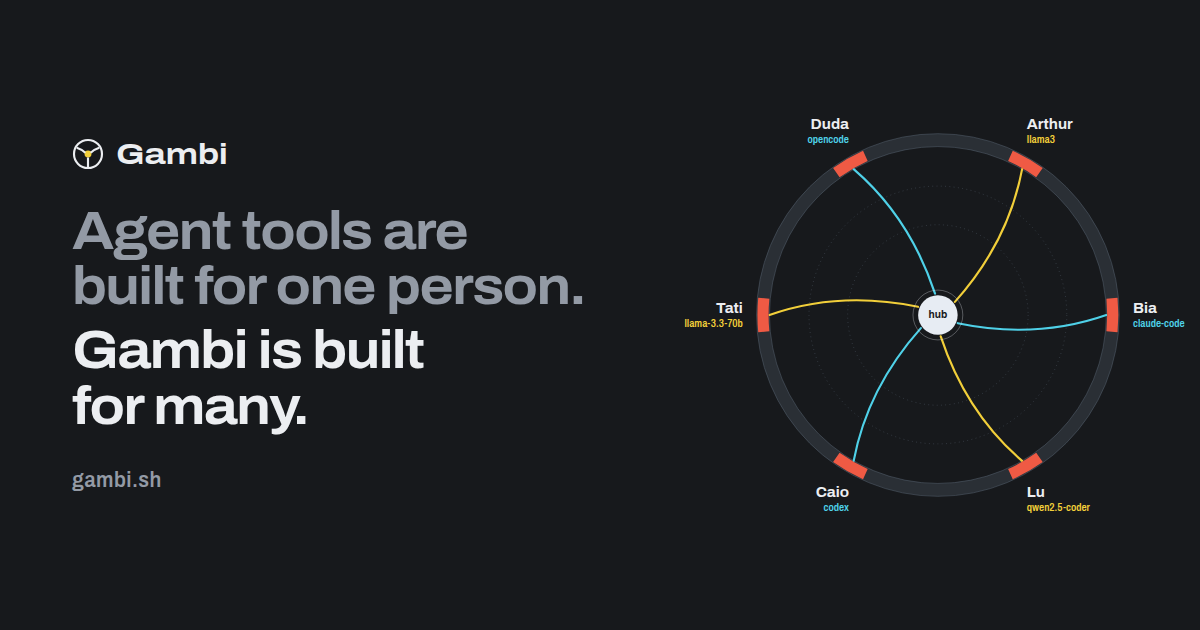
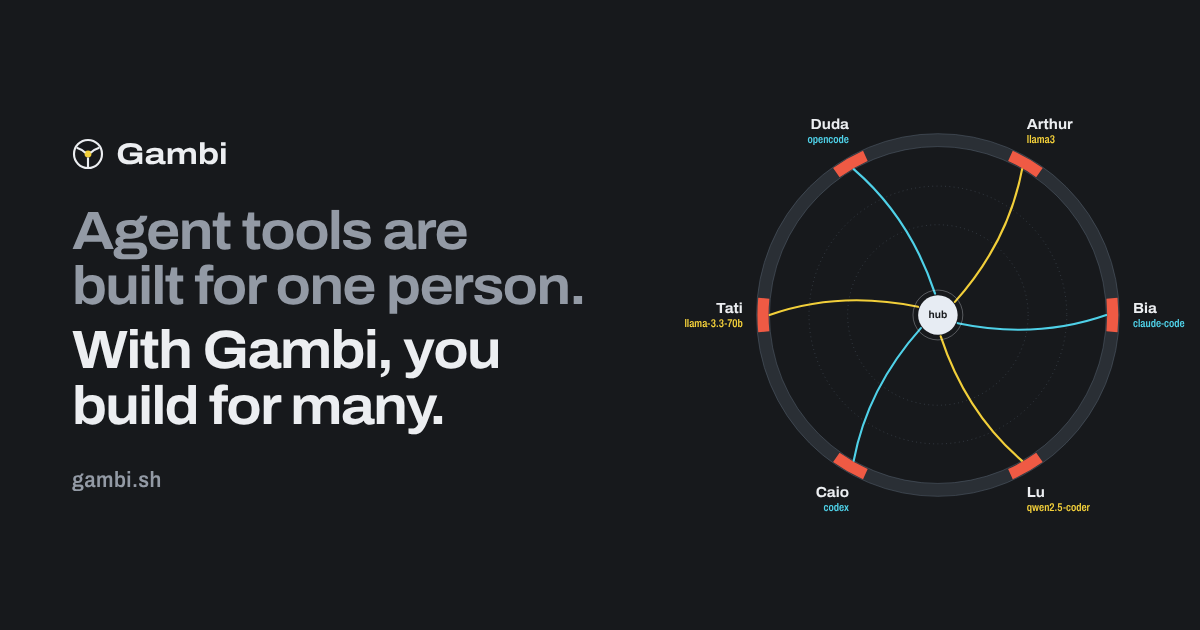
docs(landing): use "With Gambi, you build for many" in the hero (#97)
Change the hero's second line from "Gambi is built for many" to "With Gambi, you build for many" (pt-BR: "Com o Gambi, você constrói para muitas.") across the landing, meta descriptions, PRODUCT.md, and the link-preview card, and record it as amendment E14 in ADR 0001.

Claude-Session: https://claude.ai/code/session_01YVzTcABkiTkmiHRxgqdwdk

diff --git a/apps/docs/og/card.html b/apps/docs/og/card.html
@@ -171,7 +171,7 @@
       </p>
       <h1>
         <span class="one">Agent tools are built for one person.</span>
-        <span class="many">Gambi is built for many.</span>
+        <span class="many">With Gambi, you build for many.</span>
       </h1>
       <p class="url">gambi.sh</p>
     </div>

diff --git a/PRODUCT.md b/PRODUCT.md
@@ -26,7 +26,7 @@ Success (confirmed): **substrate adoption first** — outside builders adopt Gam
 
 ## Positioning
 
-"Agent tools are built for one person. Gambi is built for many." Most orchestrators connect one person to many agents (1→N); Gambi is the base for many people, each with their own models and harnesses, working in one session (N↔N), and each keeping their own keys. Gambi is a **social-ready inference substrate**: room-scoped multi-participant sharing where providers and harnesses never need to be reachable — the participant opens a tunnel to the hub (tunnel-first, ADR-0003). Neighboring gateways (OpenRouter-style) aggregate providers for one consumer; they do not offer people-contributed participants, rooms, presence, and events as a base for shared multi-LLM experiences.
+"Agent tools are built for one person. With Gambi, you build for many." Most orchestrators connect one person to many agents (1→N); Gambi is the base for many people, each with their own models and harnesses, working in one session (N↔N), and each keeping their own keys. Gambi is a **social-ready inference substrate**: room-scoped multi-participant sharing where providers and harnesses never need to be reachable — the participant opens a tunnel to the hub (tunnel-first, ADR-0003). Neighboring gateways (OpenRouter-style) aggregate providers for one consumer; they do not offer people-contributed participants, rooms, presence, and events as a base for shared multi-LLM experiences.
 
 The trust argument is part of the positioning: each person's provider keys (`ParticipantAuthHeaders`) and harness login stay on their own machine and are never sent to the hub, and the hub has no channel to write files into a participant's workspace. What crosses the tunnel is registration metadata, inference traffic, ACP messages for an attached session, and the workspace artifacts the harness produces.
 

diff --git a/docs/adr/0001-landing-redesign.md b/docs/adr/0001-landing-redesign.md
@@ -51,7 +51,9 @@ Esta iteração **não** transforma a landing em página de marca-guarda-chuva. 
 >
 > **Substituído em 2026-10-24** (§ 7, E7): a hero atual é "Bring your model. Bring your harness. Keep your keys.".
 >
-> **Substituído em 2026-11-06** (§ 7, E11): a hero atual é "Agent tools are built for one person. Gambi is built for many.".
+> **Substituído em 2026-11-06** (§ 7, E11): a hero passa a ser "Agent tools are built for one person. Gambi is built for many.".
+>
+> **Emendado em 2026-11-06** (§ 7, E14): a hero atual é "Agent tools are built for one person. With Gambi, you build for many.".
 
 **Tagline (h1):** "A room where many LLMs collaborate."
 
@@ -438,6 +440,15 @@ Exemplos selecionáveis · Código (abas) + links da documentação · Fechament
 #### E13 — Emenda a E10: o lab aparece sem ser citado
 
 O exemplo "Squads" mostra a dinâmica do experimento do `gambiarra-lab` (decisão registrada antes do despacho, steerer que aceita ou devolve com motivo), marcado "Being explored" e linkado para `/explanation/whats-next/`. A landing não cita o repositório pelo nome. O lab continua citado em `whats-next.mdx`.
+
+#### E14 — Emenda a E11: a segunda frase da hero
+
+```text
+h1 (EN):    Agent tools are built for one person. With Gambi, you build for many.
+h1 (pt-BR): Agentes são feitos para uma pessoa. Com o Gambi, você constrói para muitas.
+```
+
+Troca pedida pelo dono: a segunda frase deixa de descrever o Gambi ("Gambi is built for many") e passa a falar com quem constrói nele ("With Gambi, you build for many"). O verbo direto mantém o eco "built/build" com a primeira frase; "lets you" foi considerado e descartado por amolecer a afirmação. Lede e CTAs da E11 não mudam. O cartão `og.png`, as meta descriptions e o `PRODUCT.md` acompanham a troca.
 
 #### Impacto no mapa de arquivos (seção 4)
 
